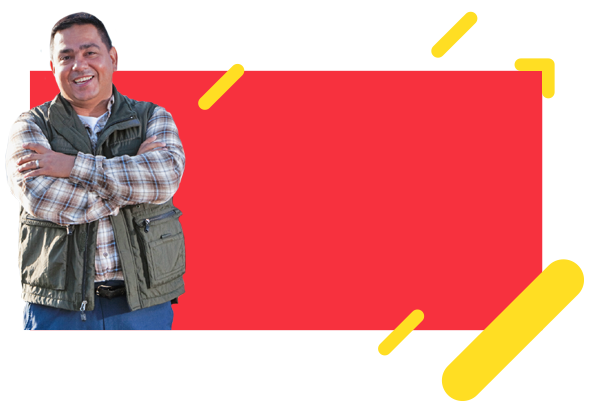
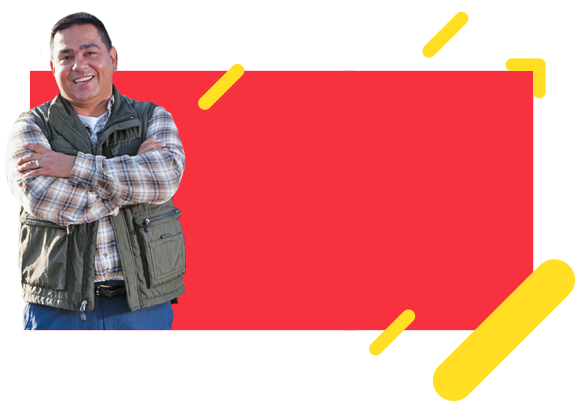
powered

diff --git a/src/sprites/sprite.js b/src/sprites/sprite.js
@@ -56,35 +56,35 @@ module.exports = {
             "width": "500px",
             "height": "500px",
             "backgroundImage": "url('http://127.0.0.1:3000/images/sprite-home.png')",
-            "backgroundSize": "1093px 613px"
+            "backgroundSize": "1080px 613px"
         },
         "NuevoEntrante": {
             "backgroundPosition": "-500px -0px",
-            "width": "593px",
+            "width": "580px",
             "height": "410px",
             "backgroundImage": "url('http://127.0.0.1:3000/images/sprite-home.png')",
-            "backgroundSize": "1093px 613px"
+            "backgroundSize": "1080px 613px"
         },
         "SeguroCertificado": {
             "backgroundPosition": "-113px -500px",
             "width": "72px",
             "height": "84px",
             "backgroundImage": "url('http://127.0.0.1:3000/images/sprite-home.png')",
-            "backgroundSize": "1093px 613px"
+            "backgroundSize": "1080px 613px"
         },
         "SegurosIBK": {
             "backgroundPosition": "-500px -410px",
             "width": "115px",
             "height": "59px",
             "backgroundImage": "url('http://127.0.0.1:3000/images/sprite-home.png')",
-            "backgroundSize": "1093px 613px"
+            "backgroundSize": "1080px 613px"
         },
         "SegurosCamion": {
             "backgroundPosition": "-0px -500px",
             "width": "113px",
             "height": "113px",
             "backgroundImage": "url('http://127.0.0.1:3000/images/sprite-home.png')",
-            "backgroundSize": "1093px 613px"
+            "backgroundSize": "1080px 613px"
         }
     },
     "HomeBanner": {

diff --git a/src/components/layout/powered.js b/src/components/layout/powered.js
@@ -1,18 +1,42 @@
 import React, { Component, PropTypes} from 'react';
 
+import Colors from '../../constants/colors';
+
 export default class Powered extends Component {
 
+  constructor(props) {
+    super(props);
+    this.state = {
+      style: {
+        mainWrapper: {
+          backgroundColor: Colors.grayDarkest,
+          color: 'white',
+          fontSize: '10px',
+          padding: '20px 0',
+          fontFamily: 'noto-sans-regular',
+          fontWeight: '100'
+        },
+        anchor: {
+          color: 'white'
+        }
+      }
+    }
+  }
   render(){
 
     return (
-      <div className="container">
-        <div className="row">
-          <div className="col-md-3 col-sm-12">
-            Todos los derechos reservados © InterBrokers
-          </div>
-          <div className="col-md-3 col-md-offset-6 col-sm-12">
-            Un proyecto de: <a>POOL</a>
-            Código por: <a>MINT</a>
+      <div style={this.state.style.mainWrapper}>
+        <div className="container">
+          <div className="row">
+            <div className="col-md-6 ">
+              Todos los derechos reservados © InterBrokers
+            </div>
+            <div className="col-md-6">
+              <div className="pull-right">
+                Un proyecto de: <a title="Branding Pool" style={this.state.style.anchor}>POOL</a> &nbsp;&nbsp;&nbsp;&nbsp;
+                Código por: <a title="Diseño y Desarrollo Web en Tijuana" style={this.state.style.anchor}>MINT</a>
+              </div>
+            </div>
           </div>
         </div>
       </div>

diff --git a/src/components/layout/footer/index.js b/src/components/layout/footer/index.js
@@ -99,14 +99,10 @@ export default class Footer extends Component {
 
             </div>
             <div className="col-md-6 col-sm-6">
-
-                <div className="row">
-                  <h3 style={titleStyle}>Servicios</h3>
-                  <ul>
-                    {serviciosEL}
-                  </ul>
-                </div>
-
+              <h3 style={titleStyle}>Servicios</h3>
+              <ul>
+                {serviciosEL}
+              </ul>
             </div>
           </div>
 

diff --git a/src/components/sections/home/entry.js b/src/components/sections/home/entry.js
@@ -7,7 +7,7 @@ import ButtonB from '../../widgets/buttonB';
 
 var nuevoEntrante = _.merge({}, Sprites.Home.NuevoEntrante, {
   padding: '90px 0 0 250px',
-  marginLeft: '-47px'
+  marginLeft: '-22px'
 });
 
 var containerStyle = {

diff --git a/src/constants/colors.js b/src/constants/colors.js
@@ -3,6 +3,7 @@ module.exports = {
   yellow: '#FFDE24',
   blueDark: '#4f7584',
   purple: '#662D91',
+  grayDarkest: '#2B2B2B',
   grayDark: '#383939',
   grayMedium: '#b7b7b7',
   grayLight: '#FAFAFA'
